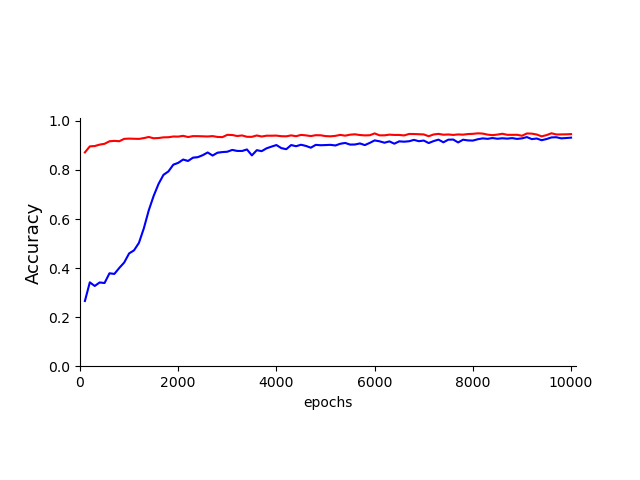
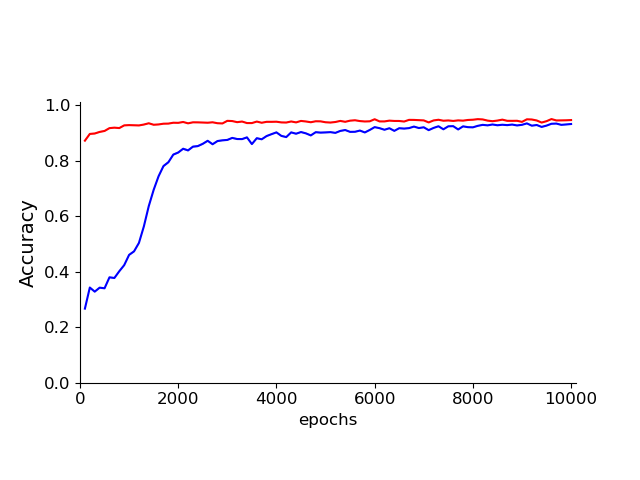
Fig2abc edit

diff --git a/figs/fig2bs/line_acc_class.py b/figs/fig2bs/line_acc_class.py
@@ -5,12 +5,12 @@ import matplotlib.pyplot as plt
 df = pd.read_csv("data_tf_class.txt", sep='\t')
 df2 = pd.read_csv("data_class.txt", sep='\t')
 
-plt.rcParams.update({'font.size': 13})
+plt.rcParams.update({'font.size': 12})
 fig, ax = plt.subplots()
 
 ax.spines['top'].set_visible(False)
 ax.spines['right'].set_visible(False)
-ax.set_aspect(13)
+ax.set_aspect(12.3)
 
 k = 'acc'
 
@@ -29,9 +29,12 @@ for key, group in df2.groupby('repeat'):
     ax.plot(group['class'], group[k], color='blue', linewidth=0.7, linestyle=':') 
     ax.fill_between(group['class'], group[k]-group[k+'_std'], group[k]+group[k+'_std'], facecolor='blue', alpha=0.2)
 
+ax.set_xticks([5,10,15,20,25])
+ax.set_xticklabels(('5', '10', '15', '20', '25'), fontsize=12)
+
 
 plt.xlabel('Number of classes')
-plt.ylabel('Accuracy')
+plt.ylabel('Accuracy', fontsize=14)
 
 plt.axis([4,26,0.0,1.01])
 plt.savefig("acc_line_classes.png")

diff --git a/figs/fig2a/tcga_lr_curv.py b/figs/fig2a/tcga_lr_curv.py
@@ -5,9 +5,10 @@ import matplotlib.pyplot as plt
 df = pd.read_csv("tcga_lr_curv.txt", sep='\t')
 print(df)
 
+plt.rcParams.update({'font.size': 12})
 fig, ax = plt.subplots()
 ax.axis([0,10100,0.0,1.01])
-ax.set_aspect(5000)
+ax.set_aspect(5650)
 ax.spines['top'].set_visible(False)
 ax.spines['right'].set_visible(False)
 my_color = {
@@ -25,7 +26,7 @@ for key, group in df.groupby('Dclass'):
     axs.fill_between(group['epochs'], group['acc']-group['acc_std'], group['acc']+group['acc_std'],
                     facecolor=my_color[key], alpha=0.3)
 
-plt.ylabel('Accuracy', fontsize=13)
+plt.ylabel('Accuracy', fontsize=14)
 #plt.legend(bbox_to_anchor=(1.00, 0), loc='lower right', fontsize='x-small')
 ax.get_legend().remove()
 

diff --git a/figs/fig2bs/line_acc_sample.py b/figs/fig2bs/line_acc_sample.py
@@ -5,7 +5,7 @@ import matplotlib.pyplot as plt
 df = pd.read_csv("data_tf_samples.txt", sep='\t')
 df2 = pd.read_csv("data_samples.txt", sep='\t')
 
-plt.rcParams.update({'font.size': 13})
+plt.rcParams.update({'font.size': 12})
 fig, ax = plt.subplots()
 
 ax.spines['top'].set_visible(False)
@@ -31,9 +31,9 @@ for key, group in df2.groupby('repeat'):
 
 
 plt.xlabel('Number of samples')
-plt.ylabel('Accuracy')
+plt.ylabel('Accuracy', fontsize=14)
 ax.set_xticks([15,30,45,60,75])
-ax.set_xticklabels(('15', '30', '45', '60', '75'), fontsize=13)
+ax.set_xticklabels(('15', '30', '45', '60', '75'), fontsize=12)
 
 
 plt.axis([11,79,0.0,1.01])
